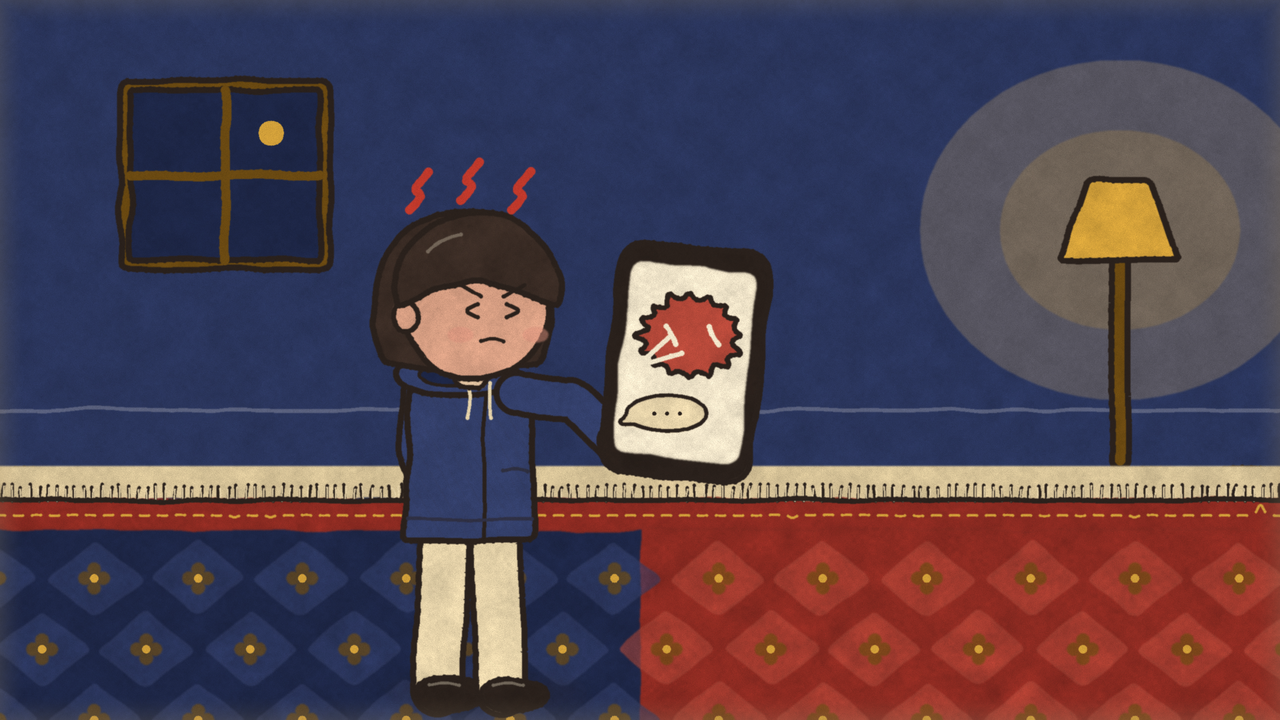
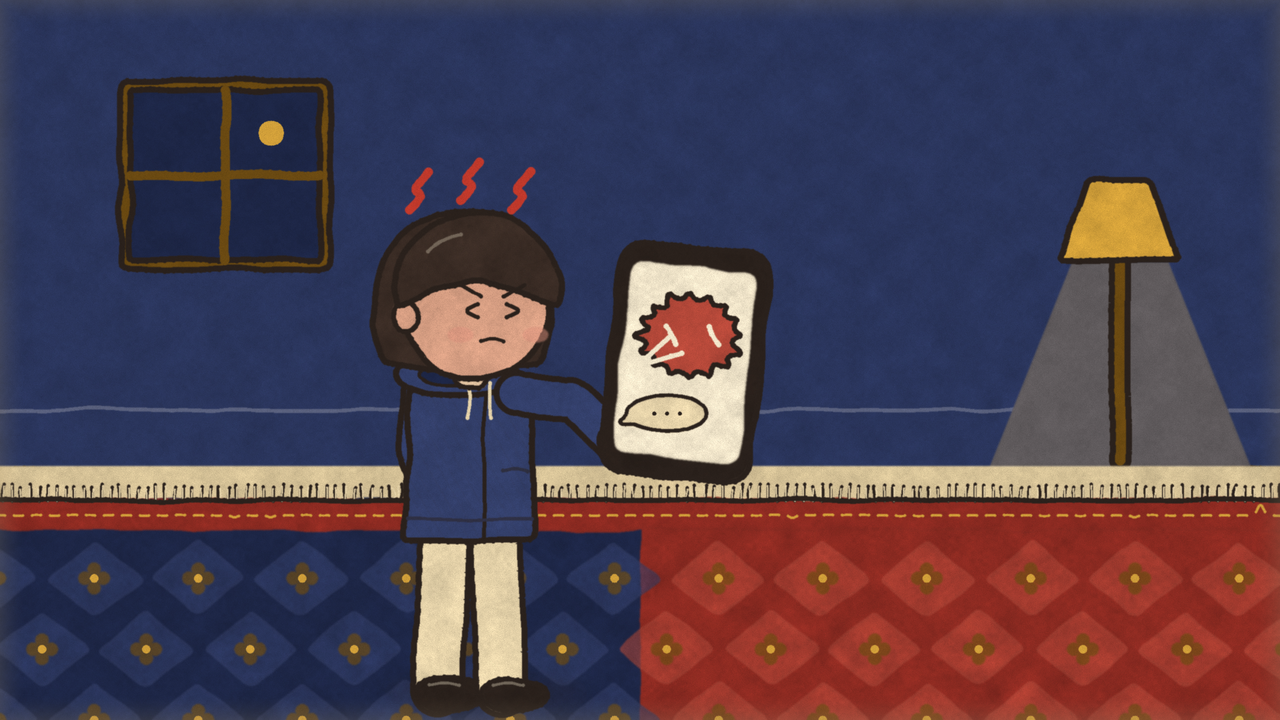
choice-maze: 作業途中の成果物
Claude-Session: https://claude.ai/code/session_01JTrs8fvjHSPRmaShvoSYrq

Changed region(s): [[0.7188, 0.0611, 1.0, 0.6722]]

diff --git a/output/choice-maze/tools/draw_scenes.py b/output/choice-maze/tools/draw_scenes.py
@@ -1408,8 +1408,7 @@ def scene_s3_2(path):
     wall(cv, FLOOR, color=mix('ai2', 'ai', 0.4), panel=False)
     cv.line([(-10, FLOOR - 60), (SW + 10, FLOOR - 60)], width=4, color=mix('ai2', 'kinari', 0.2))
     # warm lamp so it is not too dark
-    cv.fill(ell(1120, 230, 200, 170, n=60), mix('ai2', 'kin', 0.22), tex=0.04, edge=False)
-    cv.fill(ell(1120, 230, 120, 100, n=60), mix('ai2', 'kin', 0.38), tex=0.04, edge=False)
+    cv.fill([(1072, 262), (1168, 262), (1250, FLOOR - 4), (990, FLOOR - 4)], mix('ai2', 'kin', 0.28), tex=0.04)
     cv.tube([(1120, 260), (1120, FLOOR - 10)], 10, 'kinink')
     cv.shape([(1060, 260), (1180, 260), (1150, 180), (1090, 180)], fill='kin')
     window(cv, 120, 80, 330, 270, night=True)
